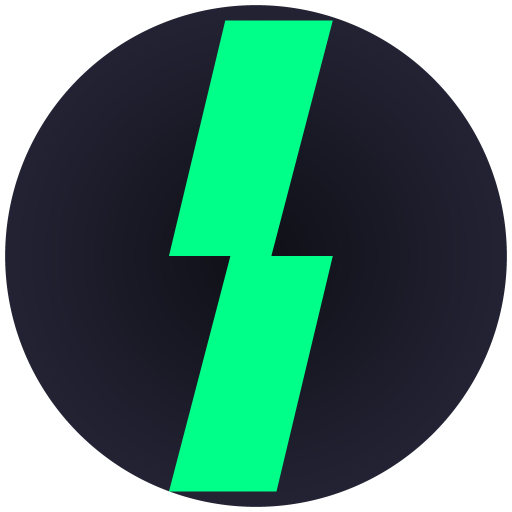
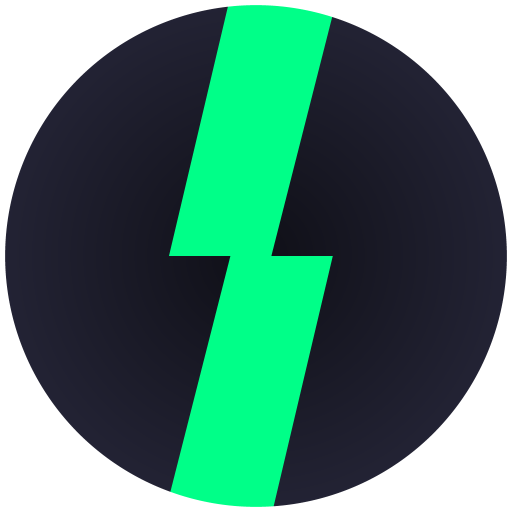
feat: extend lightning bolt to touch the perfect circular border

diff --git a/generate-icons.js b/generate-icons.js
@@ -26,12 +26,12 @@ function createPNG(size) {
     // Upper blade: top-right slanting down to mid-left
     // Lower blade: mid-right slanting down to bottom-left
     const boltPoly = [
-        [0.44, 0.04],  // top-left
-        [0.65, 0.04],  // top-right
+        [0.46, -0.05], // top-left
+        [0.67, -0.05], // top-right
         [0.53, 0.50],  // mid inner-right
         [0.65, 0.50],  // mid outer-right (step)
-        [0.54, 0.96],  // bottom-right
-        [0.33, 0.96],  // bottom-left
+        [0.52, 1.05],  // bottom-right
+        [0.31, 1.05],  // bottom-left
         [0.45, 0.50],  // mid outer-left (step)
         [0.33, 0.50],  // mid inner-left
     ];
